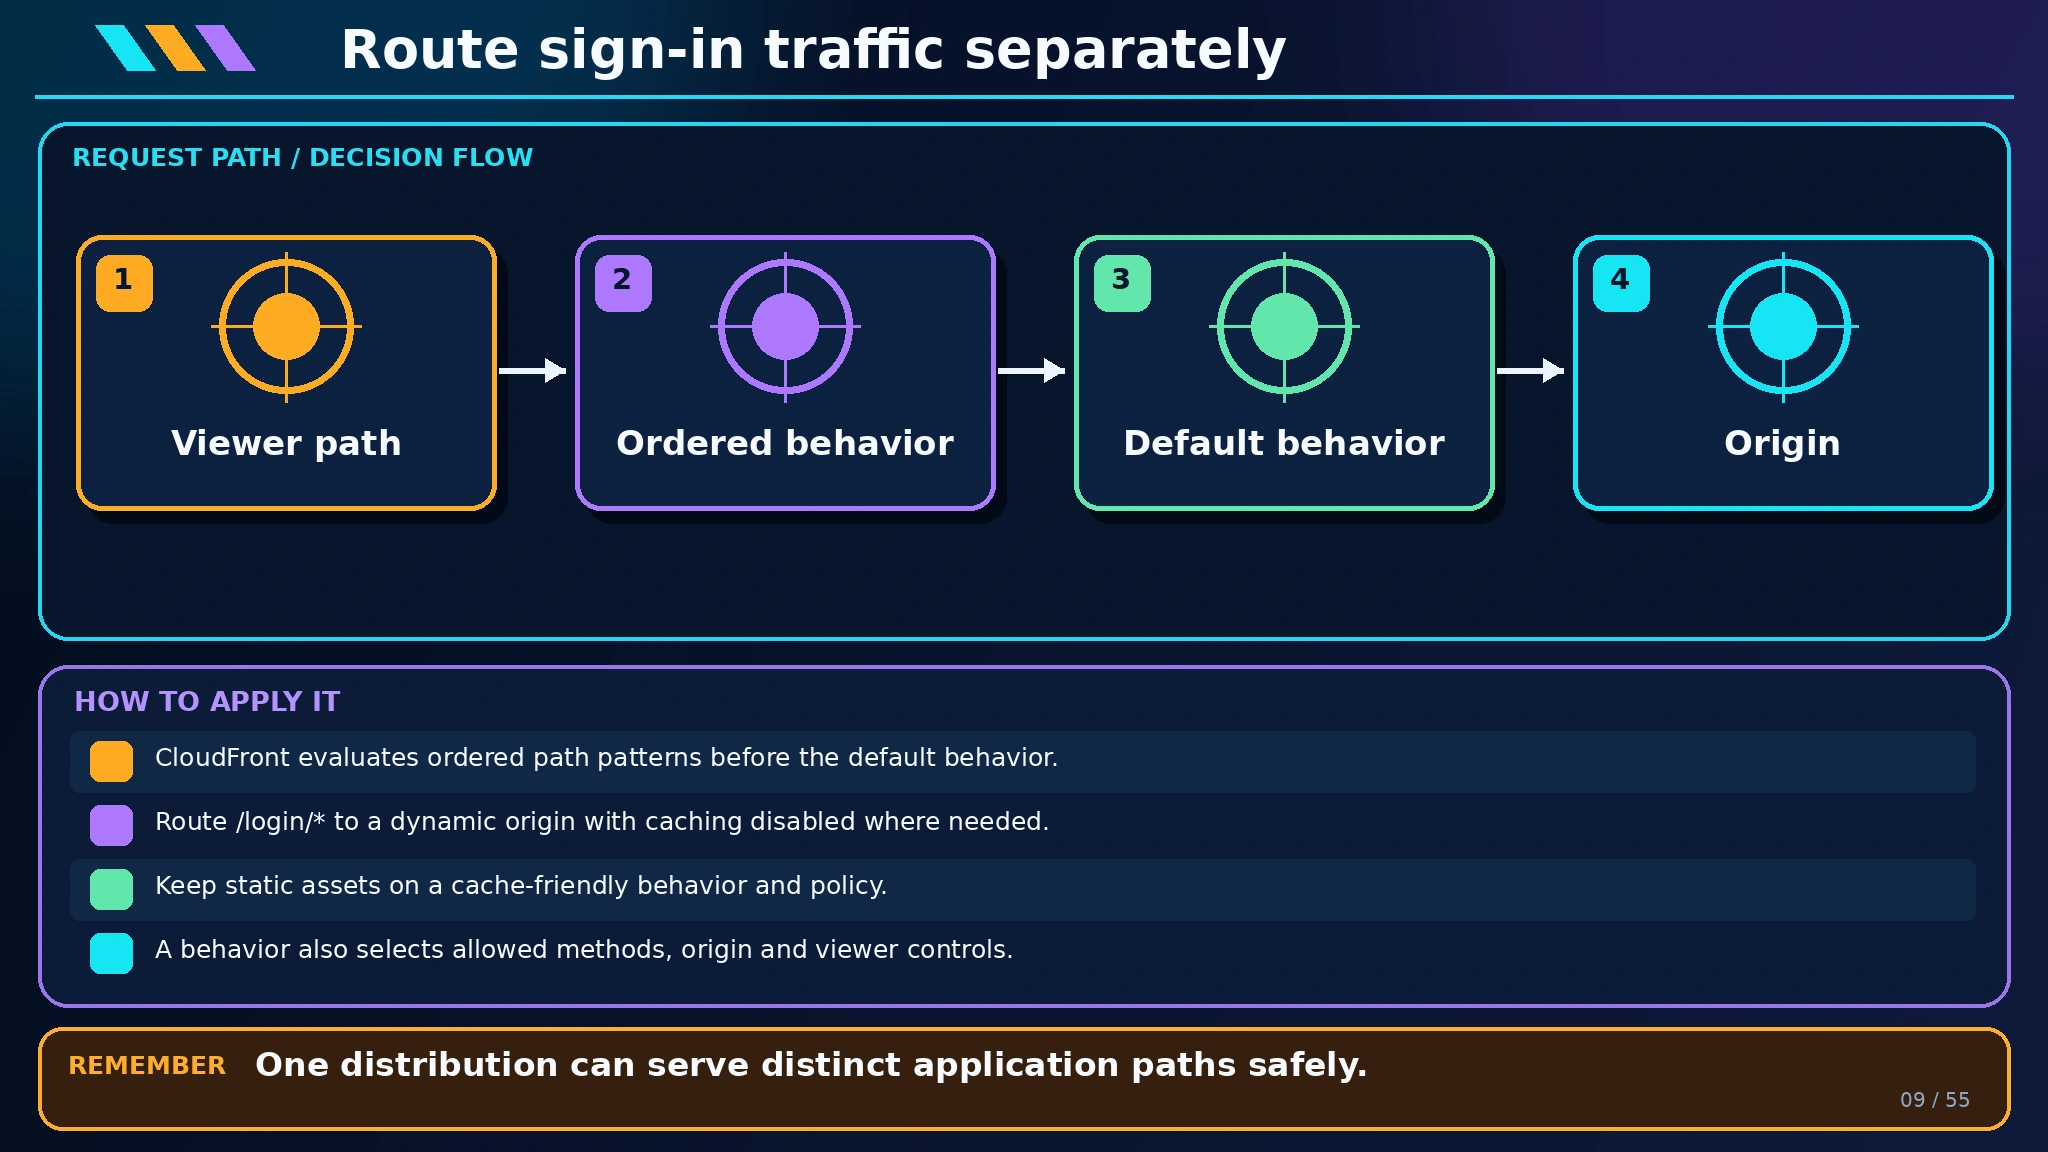
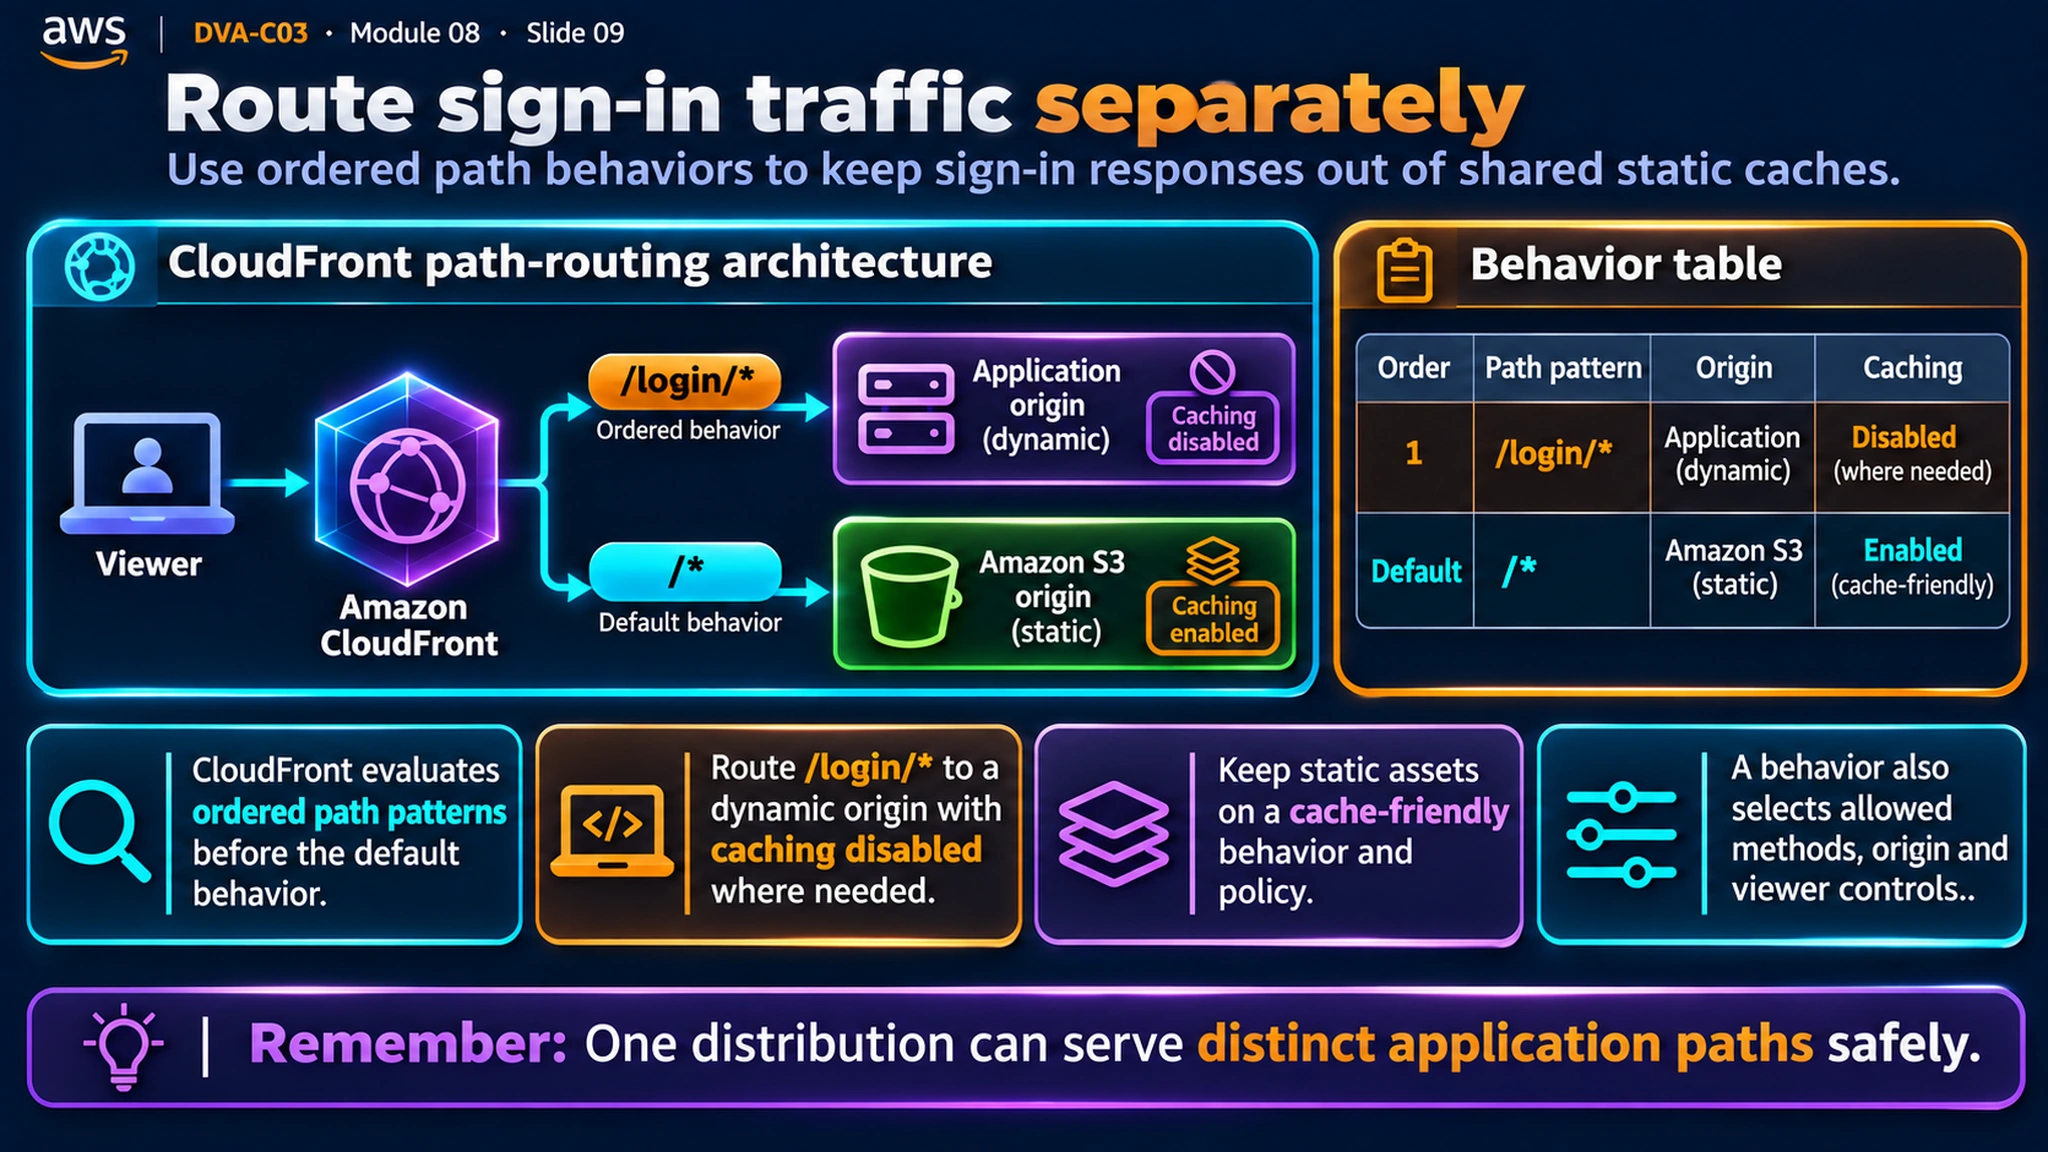
Replace DVA module 08 with 26 redesigned visual lessons

diff --git a/docs/dva-c03/module-08-coverage.md b/docs/dva-c03/module-08-coverage.md
@@ -17,4 +17,6 @@ The earlier proposal reused SAP module 15 slide 04 twice (lessons 01 and 09). Le
 
 The asset paths, image dimensions, unique bytes, lesson order and page metadata were validated. New visuals explain the assigned topic in original wording and retain the `visual-review` status; reused visuals also retain that status until each visual's teaching depth and exact technical wording are inspected against the source and current AWS documentation. Page metadata coverage alone is not a claim that every source subtopic or current DVA-C03 objective has passed semantic QA.
 
-The generated diagrams use a shared visual system and are intentionally concise. A further visual design pass should add service-specific official iconography and vary the diagram composition where the relationship is a comparison rather than a request path.
+The 26 original diagrams were redesigned against the supplied SAP visual references. They now use topic-specific comparison, branch, diagnostic, security-boundary, release and request-path compositions; glossy dark backgrounds, luminous service illustrations, prominent white/orange title hierarchy, detailed explanation and decision tables, and a Remember takeaway. The earlier uniform four-box generator has been removed so it cannot overwrite these reviewed assets.
+
+The image redesign included a technical correction pass for CloudFront invalidation paths, authenticated API caching, separate TLS legs, the API Gateway stage canary versus Lambda alias distinction, and independent API status/latency diagnostics. This is an image and metadata review, not a certification of every current service exception or source-PDF subtopic.
